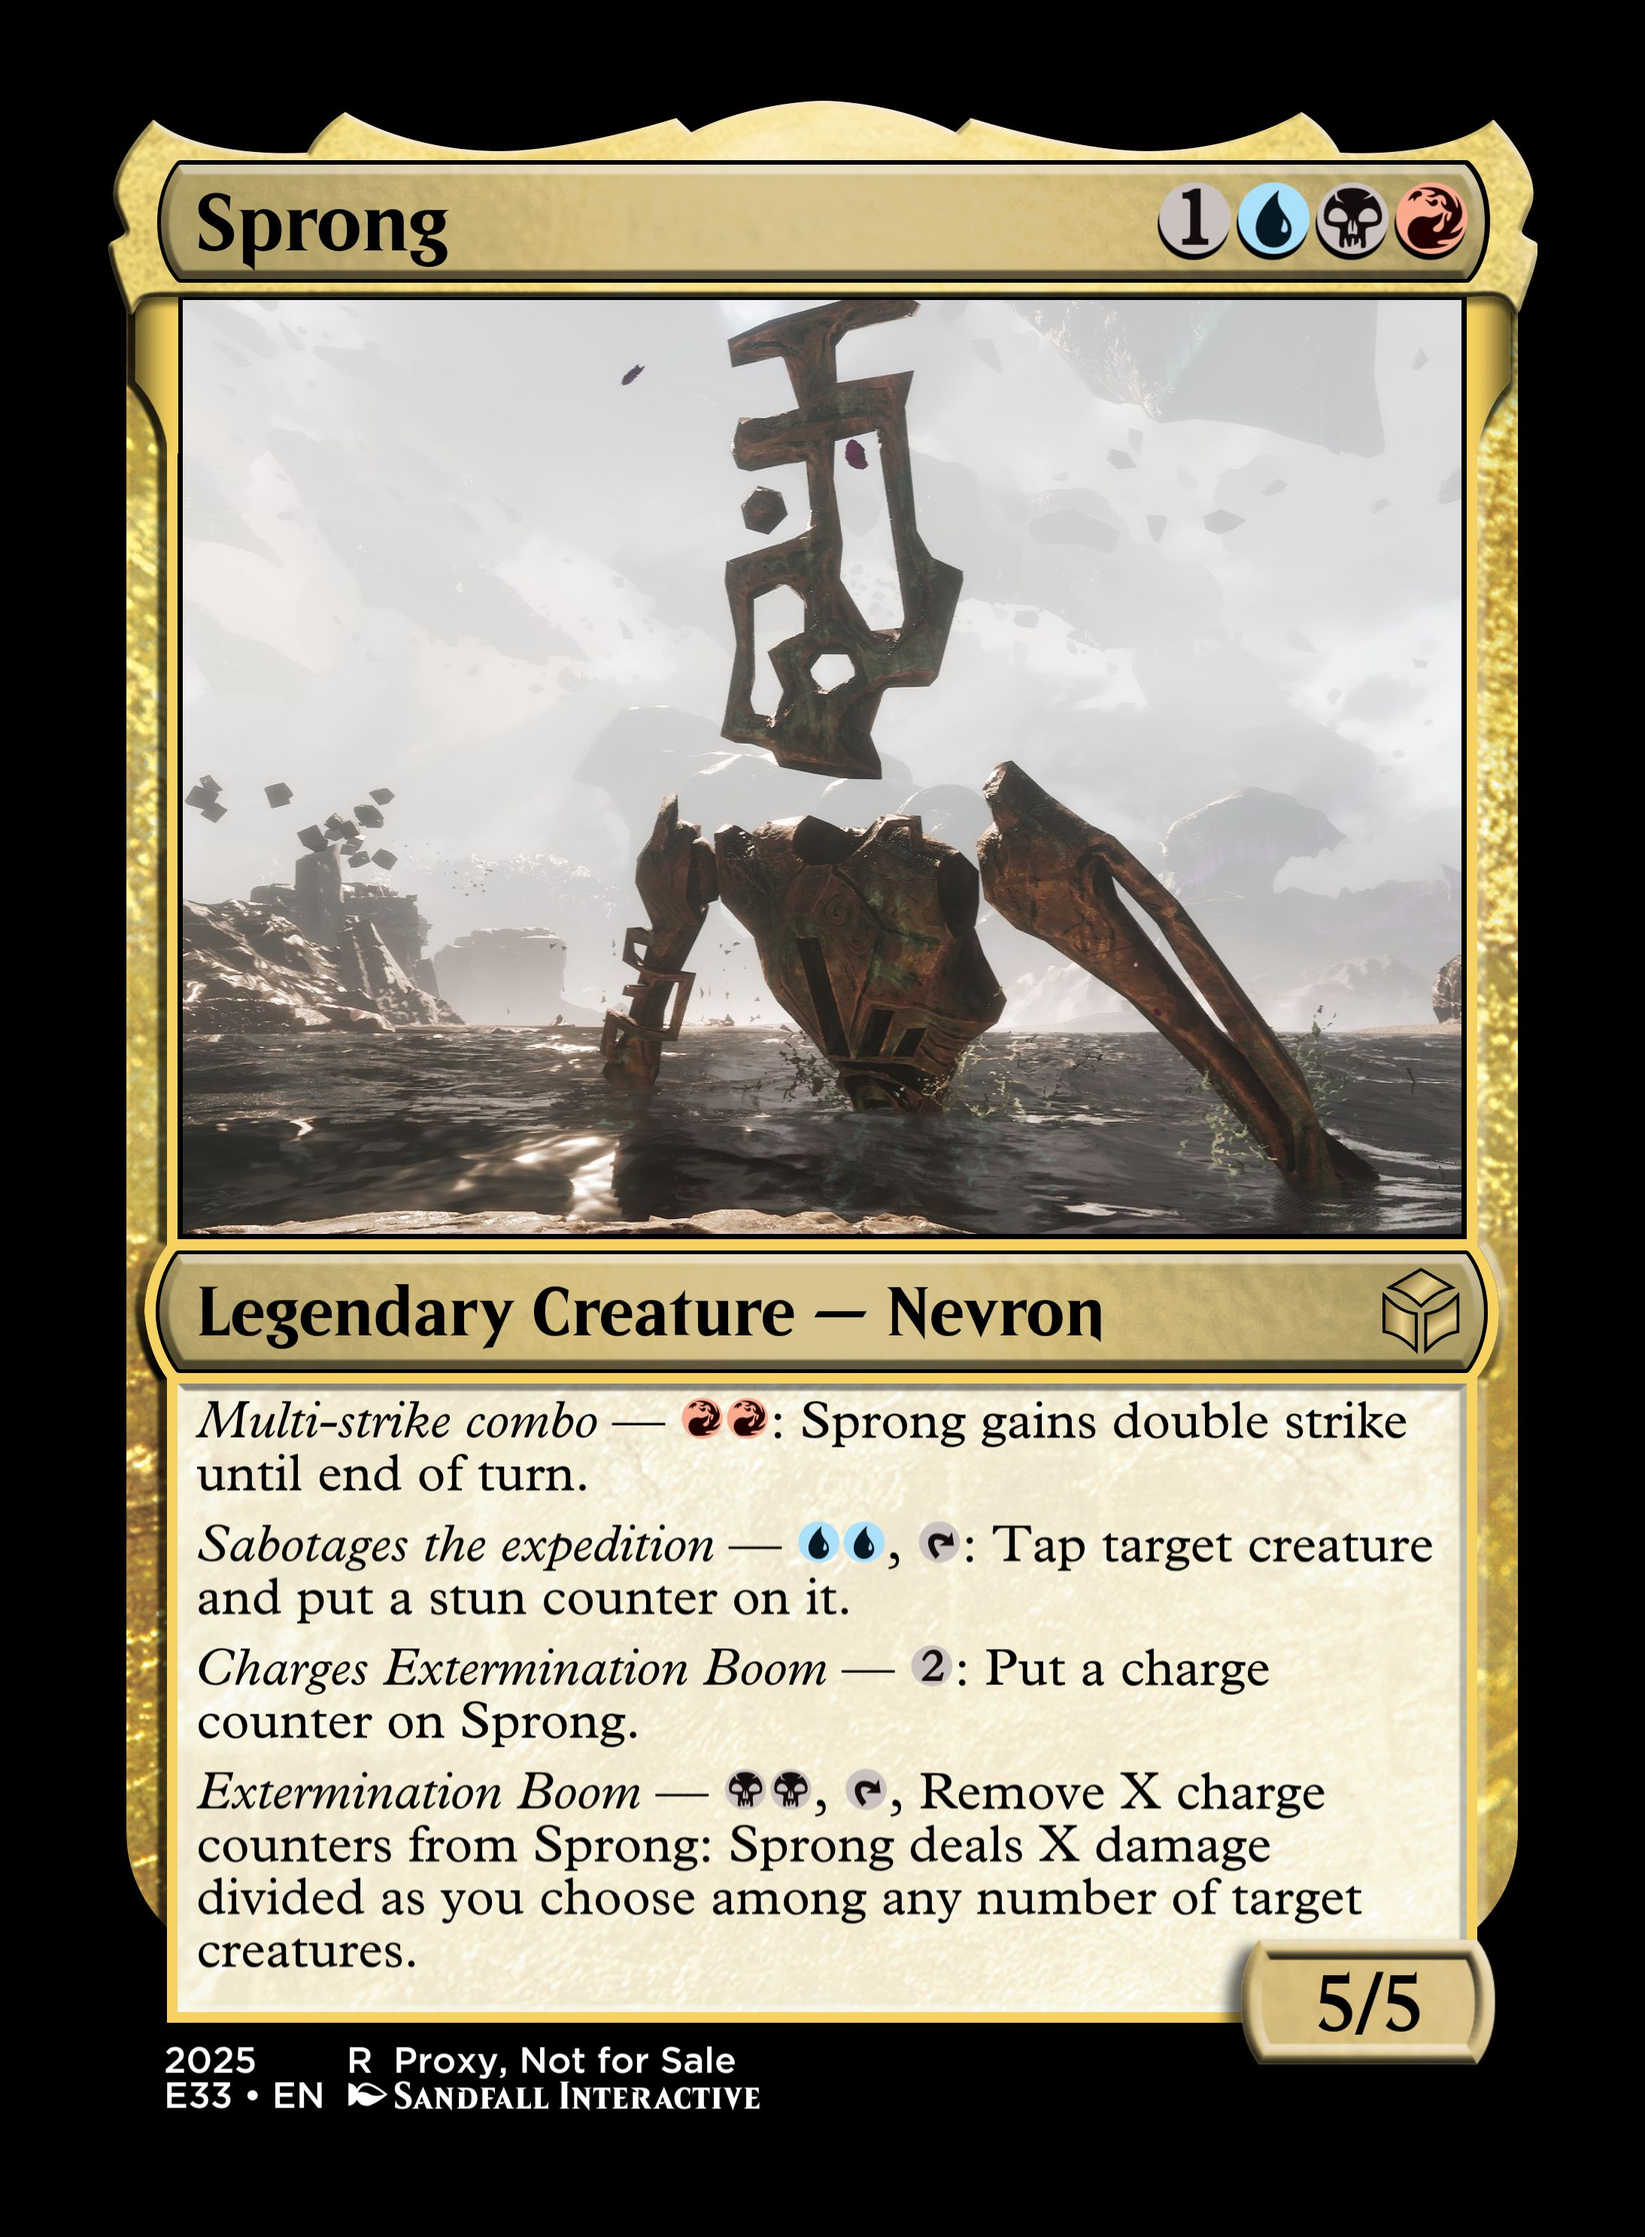
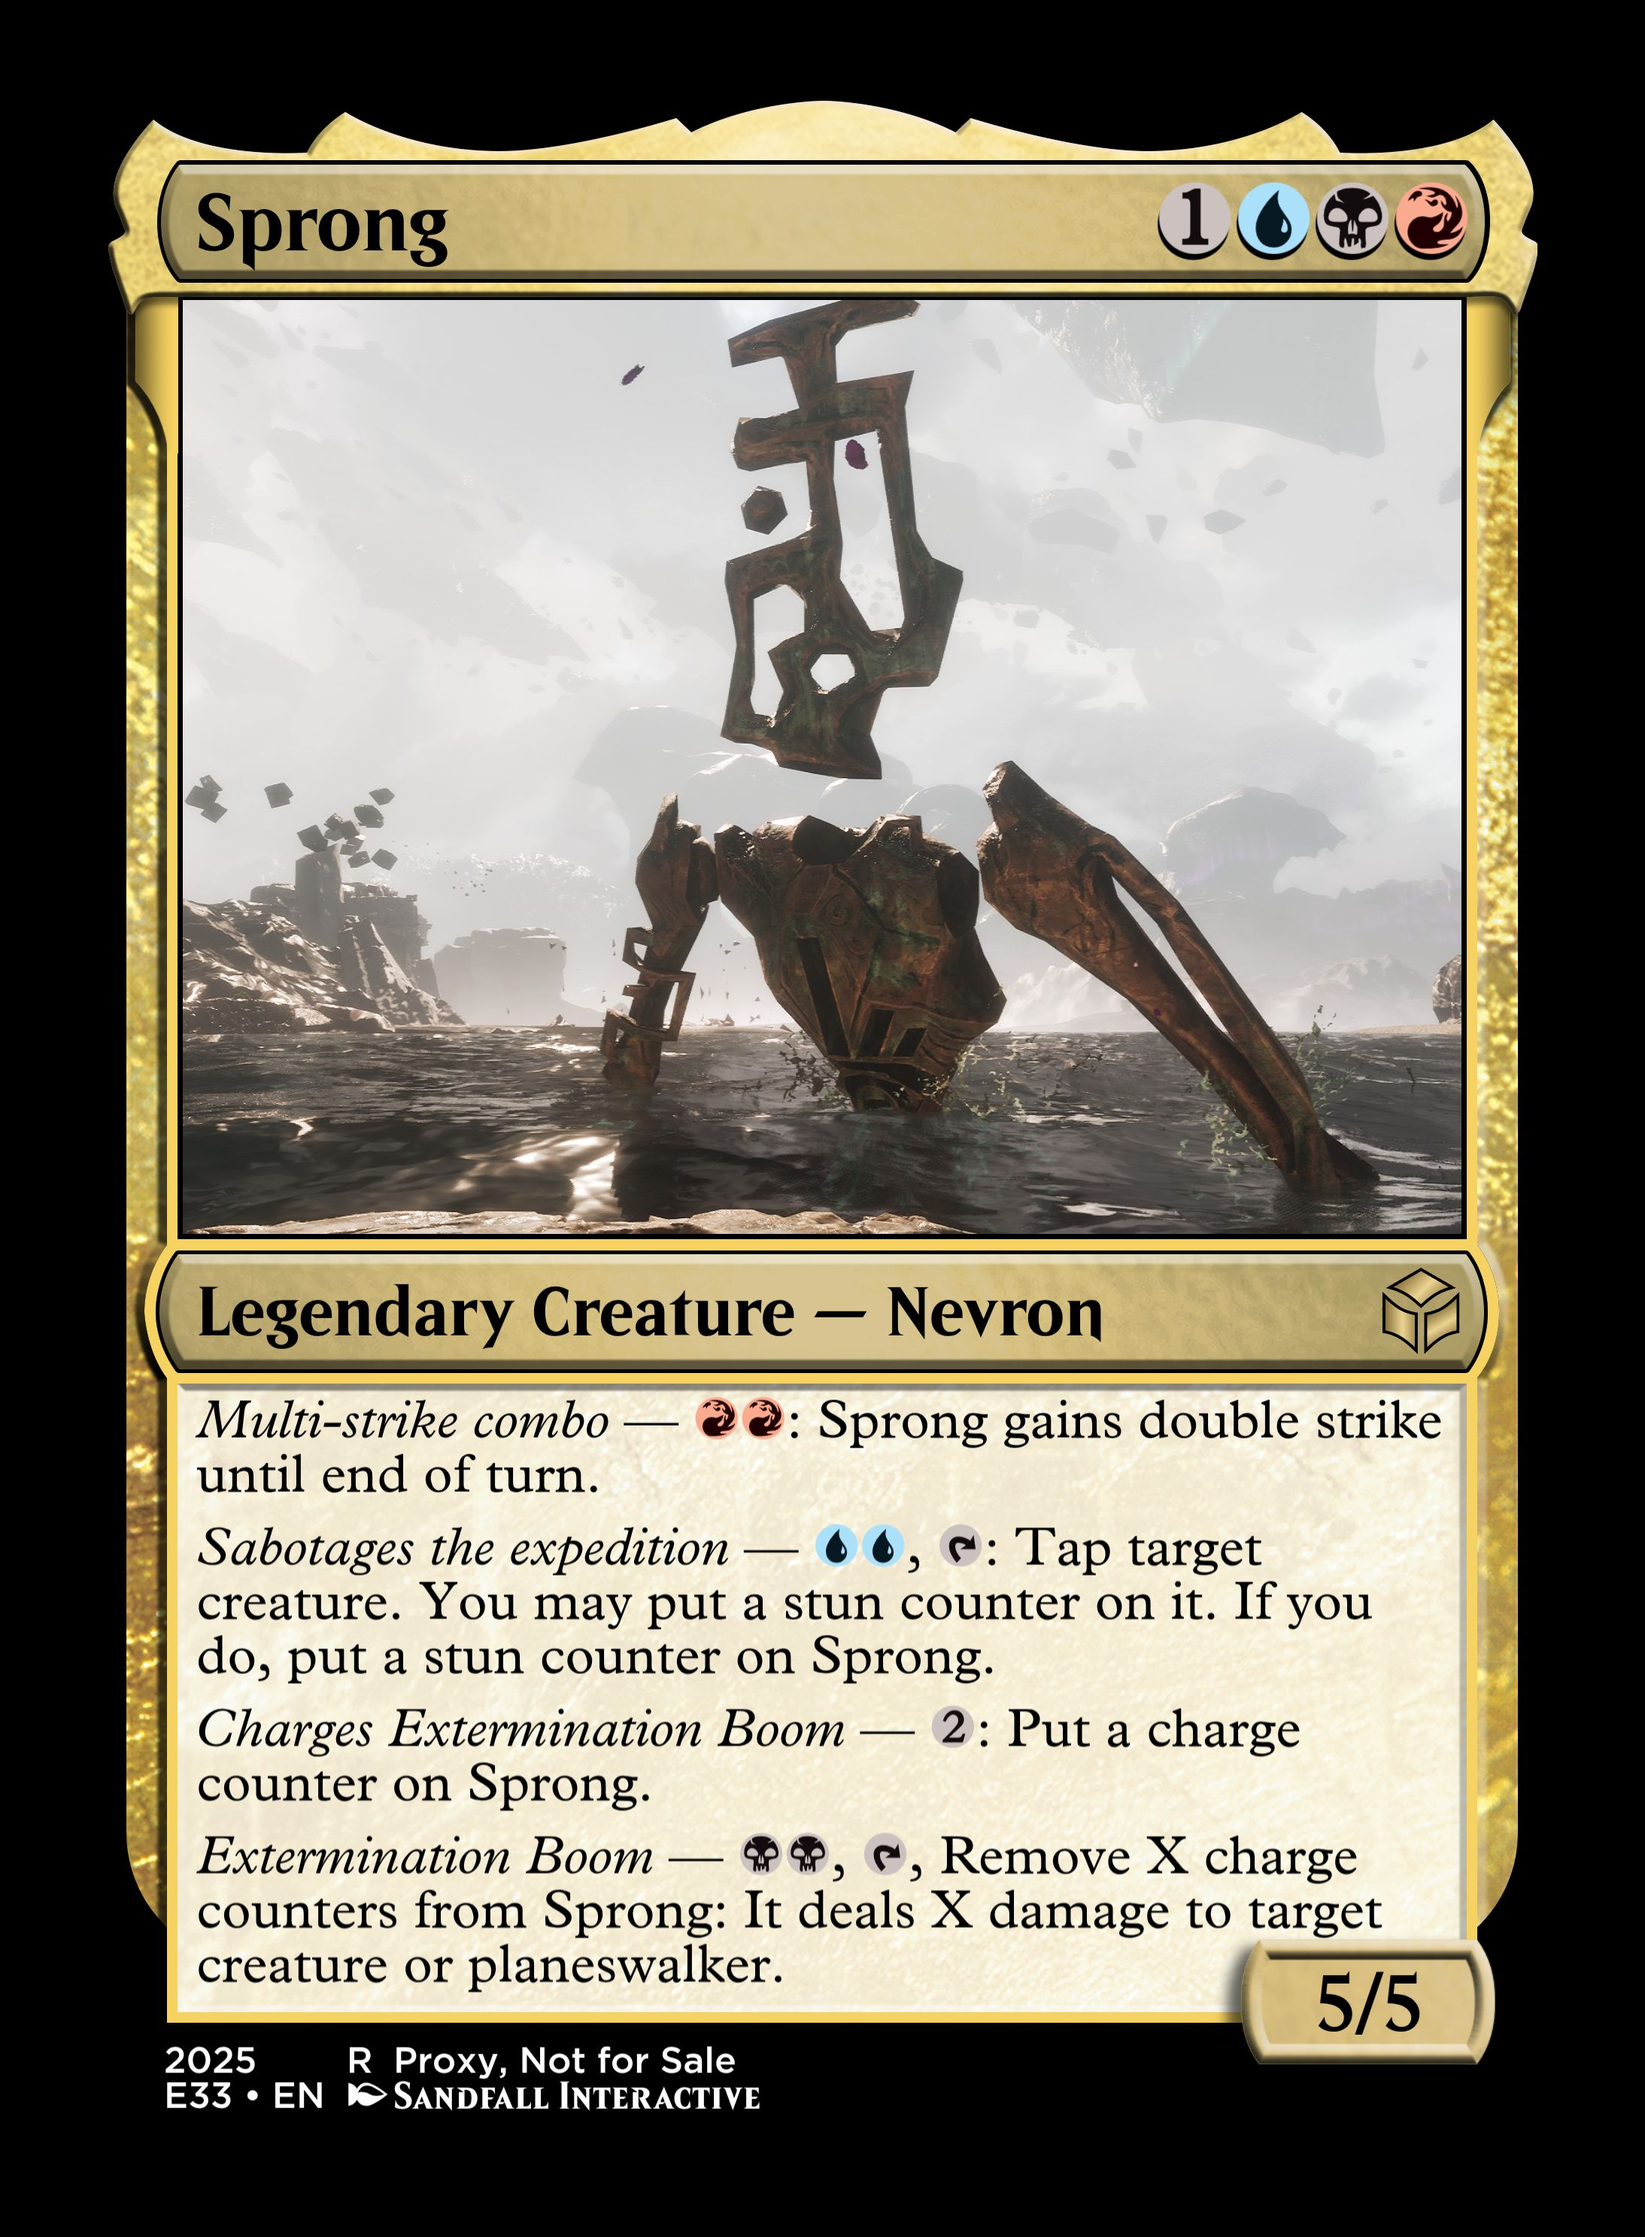
Sprong: Re-balance abilities
Fixes #152

Changed region(s): [[0.1244, 0.6185, 0.8706, 0.8968], [0.4042, 0.6185, 0.8706, 0.6494]]

diff --git a/design/MULTICOLOR.md b/design/MULTICOLOR.md
@@ -1,6 +1,6 @@
 # Cards
 
-> Last generated: 6/7/2026 2:53:46 pm
+> Last generated: 8/7/2026 10:50:18 am
 
 ## Aberration
 
@@ -2448,9 +2448,9 @@ A Widow Ballet Charms — Sacrifice four creature tokens named Ballet: Gain cont
 1UBR
 Legendary Creature - Nevron
 Multi-strike combo — {R}{R}: Sprong gains double strike until end of turn.
-Sabotages the expedition — {U}{U}, {T}: Tap target creature and put a stun counter on it.
+Sabotages the expedition — {U}{U}, {T}: Tap target creature. You may put a stun counter on it. If you do, put a stun counter on Sprong.
 Charges Extermination Boom — {2}: Put a charge counter on Sprong.
-Extermination Boom — {B}{B}, {T}, Remove X charge counters from Sprong: Sprong deals X damage divided as you choose among any number of target creatures.
+Extermination Boom — {B}{B}, {T}, Remove X charge counters from Sprong: It deals X damage to target creature or planeswalker.
 
 5/5
 ```
@@ -2461,6 +2461,9 @@ Extermination Boom — {B}{B}, {T}, Remove X charge counters from Sprong: Sprong
 
  - In the game, Sprong is an optional overworld boss.
  - Grixis color identity chosen so double strike could be flavorfully woven in to its ability suite. Other abilities are on-flavor for their respective colors.
+ - 8/7/2026: Game balancing adjustments
+    - Sabotages the expedition downgraded to a regular tap with the stun option being optional and mutual (ala. Sanctuary Wall)
+    - Extermination Boom now only targets a single creature (or planeswalker), otherwise this is a straight up Masticore-tier creature machine gun without a Masticore-tier drawback.
 
 ## Stalact
 
